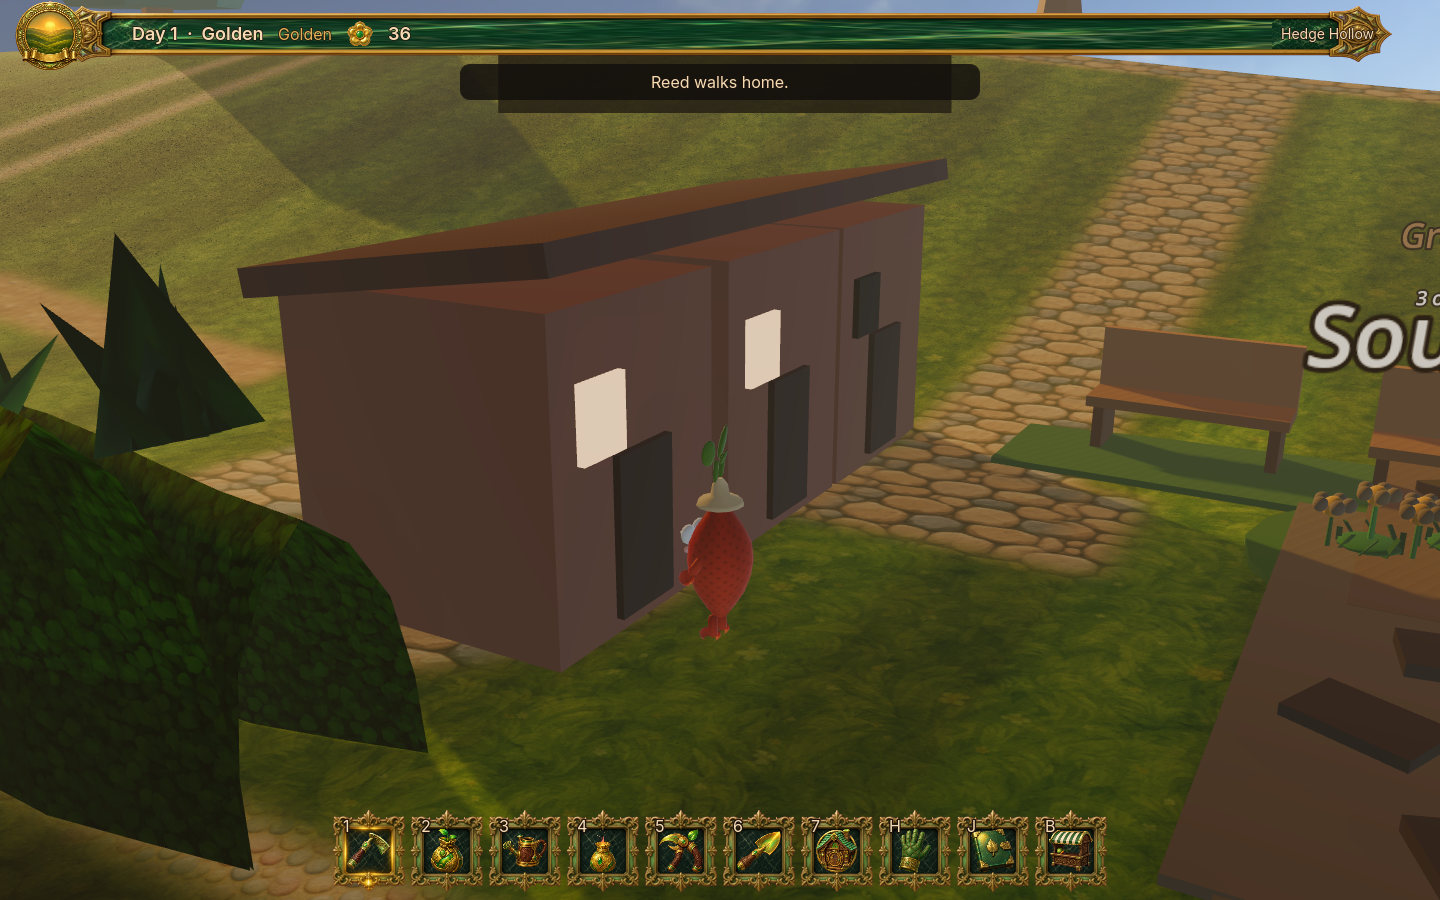
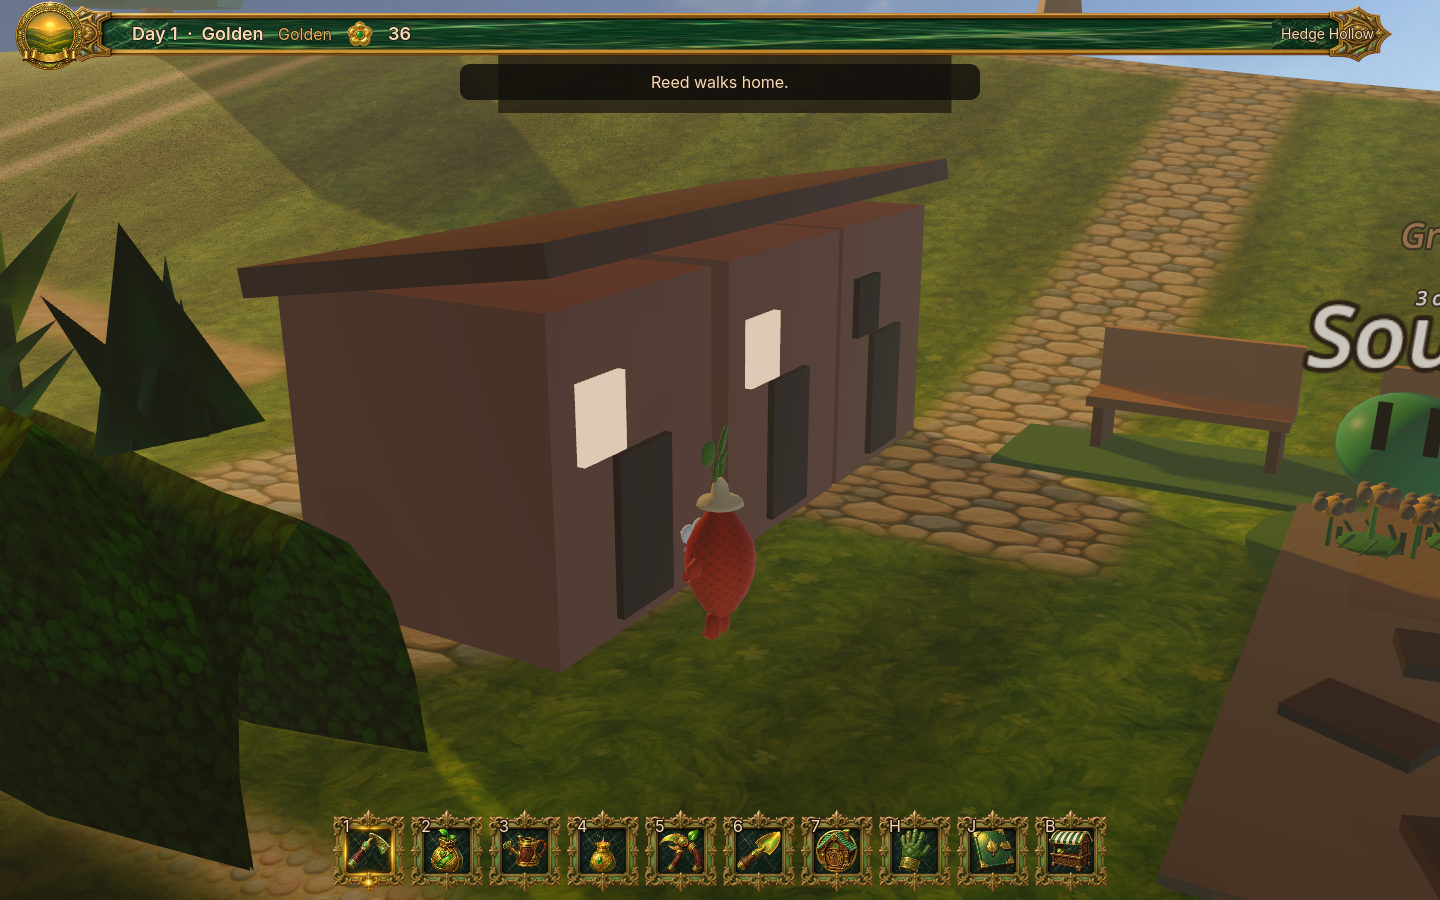
Dim the cottage window while the household is out.
The home cottage's pane goes dark on the lawn and lights again at the door. The town shot quits if either state is wrong.

diff --git a/docs/CURRENT_STATE.md b/docs/CURRENT_STATE.md
@@ -24,7 +24,7 @@ Pass 2 from `petal/08-integration` is in this tree: inspect snack, pouch feed, h
 Approved jelly cut-outs (`assets/art/images/PETAL-08-101/`) are the resting card. Hunger, a grab, a poke, or a throw shows a shaded gel icon: one body, two black vertical eyes, a small highlight. The eyes stay unshaded so the sun does not grey them out. The icon tips toward the camera.
 Sign-off CAM_06 still stages its own `SignoffJelly` card.
 Grove Park, once Nessa files it, is a lawn with benches and one worn walk from the lawn to the hedge gate. Lumen and Bram walk through that gate to the grass and stay there. `grove_park.active` stays false.
-When the road rumour is filed, six cottages stand on South Lane between the gate and the lawn. Occupied houses light a window. If the camera is near the gate, the first household (a tomato folk, surname from the lane record) stands at that door. Enter, while the camera is near that cottage, steps into the kitchen. A cup on the table holds hedge tea when the kettle has a pot or a crate of it. T drinks one serving and the cup empties when that was the last. G, once Grove Park is filed, walks that household from the cottage door, through the gate, onto the lawn. G again walks them home through the gate. The lawn spot survives save and load. While they stand on the grass, the Grove Park count includes them. A hungry Bellhelp can stand on that same lawn with both black eyes still showing. The same name is used in the kitchen, on the path, and on the place page. Esc steps back out. The place page says where they are: kitchen, walking, lawn, or cottage door. After a sip it also keeps “drank the hedge tea,” including across save and load. Farther houses stay counts. `grove_park.active` stays false.
+When the road rumour is filed, six cottages stand on South Lane between the gate and the lawn. Occupied houses light a window. If the camera is near the gate, the first household (a tomato folk, surname from the lane record) stands at that door. Enter, while the camera is near that cottage, steps into the kitchen. A cup on the table holds hedge tea when the kettle has a pot or a crate of it. T drinks one serving and the cup empties when that was the last. G, once Grove Park is filed, walks that household from the cottage door, through the gate, onto the lawn. G again walks them home through the gate. The lawn spot survives save and load. While they stand on the grass, the Grove Park count includes them and their cottage window goes dark. The window lights again when they are at the door. A hungry Bellhelp can stand on that same lawn with both black eyes still showing. The same name is used in the kitchen, on the path, and on the place page. Esc steps back out. The place page says where they are: kitchen, walking, lawn, or cottage door. After a sip it also keeps “drank the hedge tea,” including across save and load. Farther houses stay counts. `grove_park.active` stays false.
 
 ## ACTIVE AGENTS
 
@@ -47,7 +47,7 @@ Executive on this branch. No other agent is writing this tree in this run.
 2026-09-29, Godot 4.8-dev6, llvmpipe, `DISPLAY=:1`.
 
 - `./tools/petal_qa.sh` → `PETAL_QA_SCRIPTS_OK` on this tip.
-- `PETAL_TOWN_SHOT=1` → `PETAL_TOWN_SHOT_OK`. The shot quits if the near cottage has no body, if Enter does not open the kitchen, if the cup does not match the kettle, if the window or the cup leaves the frame, if T does not spend one tea, if the walk misses the gate or the lawn, if the walk home misses the gate or the door, if the place page loses the lawn or the door, if reload sends them home early, if the lawn sign ignores them, if reload forgets the tea, or if Esc leaves the room open.
+- `PETAL_TOWN_SHOT=1` → `PETAL_TOWN_SHOT_OK`. The shot quits if the near cottage has no body, if Enter does not open the kitchen, if the cup does not match the kettle, if the window or the cup leaves the frame, if T does not spend one tea, if the walk misses the gate or the lawn, if the walk home misses the gate or the door, if the place page loses the lawn or the door, if reload sends them home early, if the lawn sign ignores them, if the cottage window stays lit on the lawn or dark at the door, if reload forgets the tea, or if Esc leaves the room open.
 - `PETAL_KETTLE_SHOT=1` → `PETAL_KETTLE_SHOT_OK`. The brew plate quits if the kettle leaves the frame.
 - `PETAL_JELLY_PLAY=1` → `JELLY_PLAY_OK`. Hungry plate shows the gel sphere and both black eyes.
 - `PETAL_RESIDENT_SHOT=1` → `PETAL_RESIDENT_SHOT_OK`. Bram, Lumen, and Bellhelp still read on the lawn.
@@ -79,7 +79,7 @@ Executive on this branch. No other agent is writing this tree in this run.
 
 `docs/screenshots/grove_together.png` (1440×900). Reed and a hungry Bellhelp share the lawn. The jelly shows two black eyes. The sign still reads “4 on the lawn.”
 
-`docs/screenshots/cottage_home.png` (1440×900). G again brought them back to the cottage door. The line reads “Reed walks home.”
+`docs/screenshots/cottage_home.png` (1440×900). G again brought them back to the cottage door. The line reads “Reed walks home.” The cottage window is lit.
 
 `docs/screenshots/town_parish.png` (1440×900). After reload the page still says “Reed is at the cottage door” and “Reed drank the hedge tea.” The near-row matches the door. Moss and the lawn visitors still read “still no body.”
 

diff --git a/docs/CAMPAIGN_BOARD.md b/docs/CAMPAIGN_BOARD.md
@@ -9,7 +9,7 @@ Playable Hedge Hollow on `petal/09-art-rescue`, continued on `cursor/playable-je
 - Tend the four beds. Feed a jelly from a ripe plant or the pouch.
 - Grab, nuzzle, throw. A fed idle jelly shows the approved cut-out. Hunger or a grab shows a shaded gel icon with two black eyes.
 - Stall, jam, tea, journal. Vale map on M. Town page on C.
-- Grove Park opens after the road rumour and Nessa's filing. Lumen and Bram walk through the hedge gate and stay on the grass. South Lane puts six cottages on that path when the rumour is filed. A near camera stands one tomato household at the first door. Enter steps into that kitchen. T drinks one kettle tea. G walks that household through the gate to the lawn, the lawn count includes them, and a hungry Bellhelp can share that grass with both eyes showing. G again walks them home. The place page names where they are, keeps the tea sip after reload, and Reed’s near-row matches. Esc steps back out. Catalog stays `active: false`.
+- Grove Park opens after the road rumour and Nessa's filing. Lumen and Bram walk through the hedge gate and stay on the grass. South Lane puts six cottages on that path when the rumour is filed. A near camera stands one tomato household at the first door. Enter steps into that kitchen. T drinks one kettle tea. G walks that household through the gate to the lawn, the lawn count includes them, their cottage window goes dark while they are out, and a hungry Bellhelp can share that grass with both eyes showing. G again walks them home. The place page names where they are, keeps the tea sip after reload, and Reed’s near-row matches. Esc steps back out. Catalog stays `active: false`.
 
 ## NEXT
 
